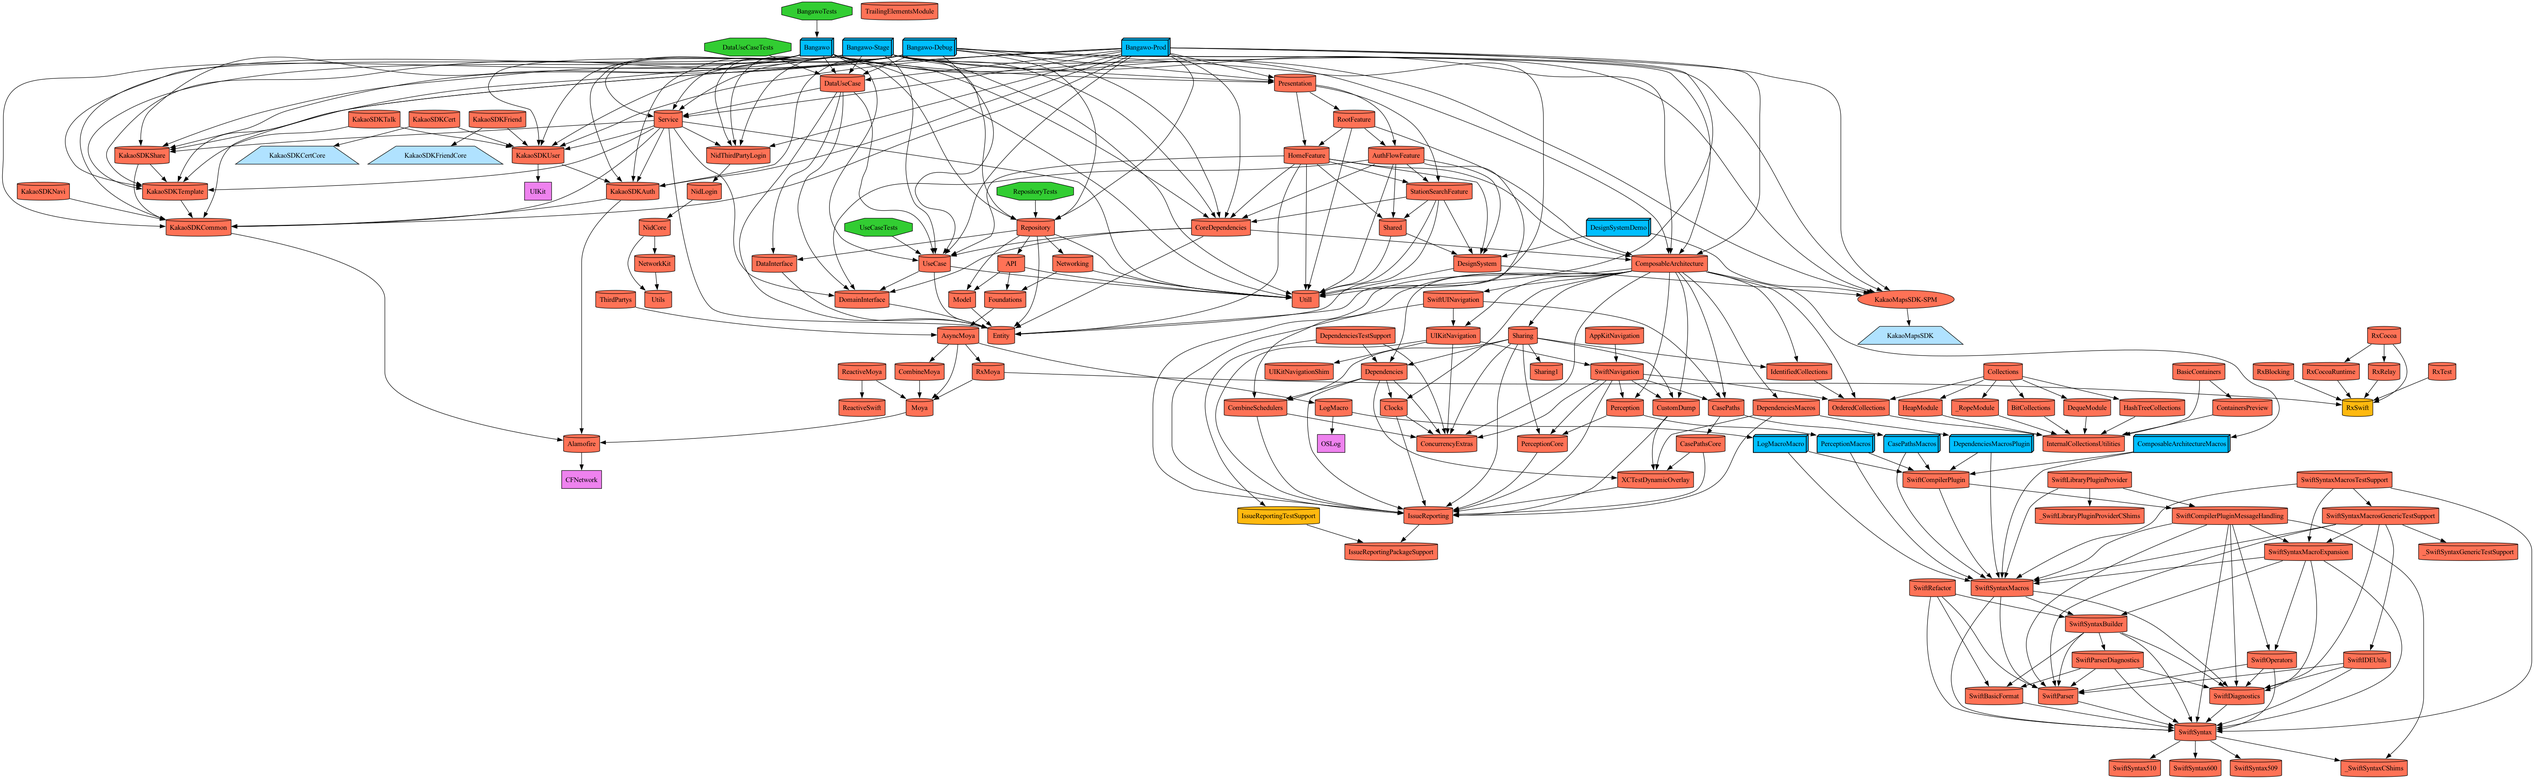
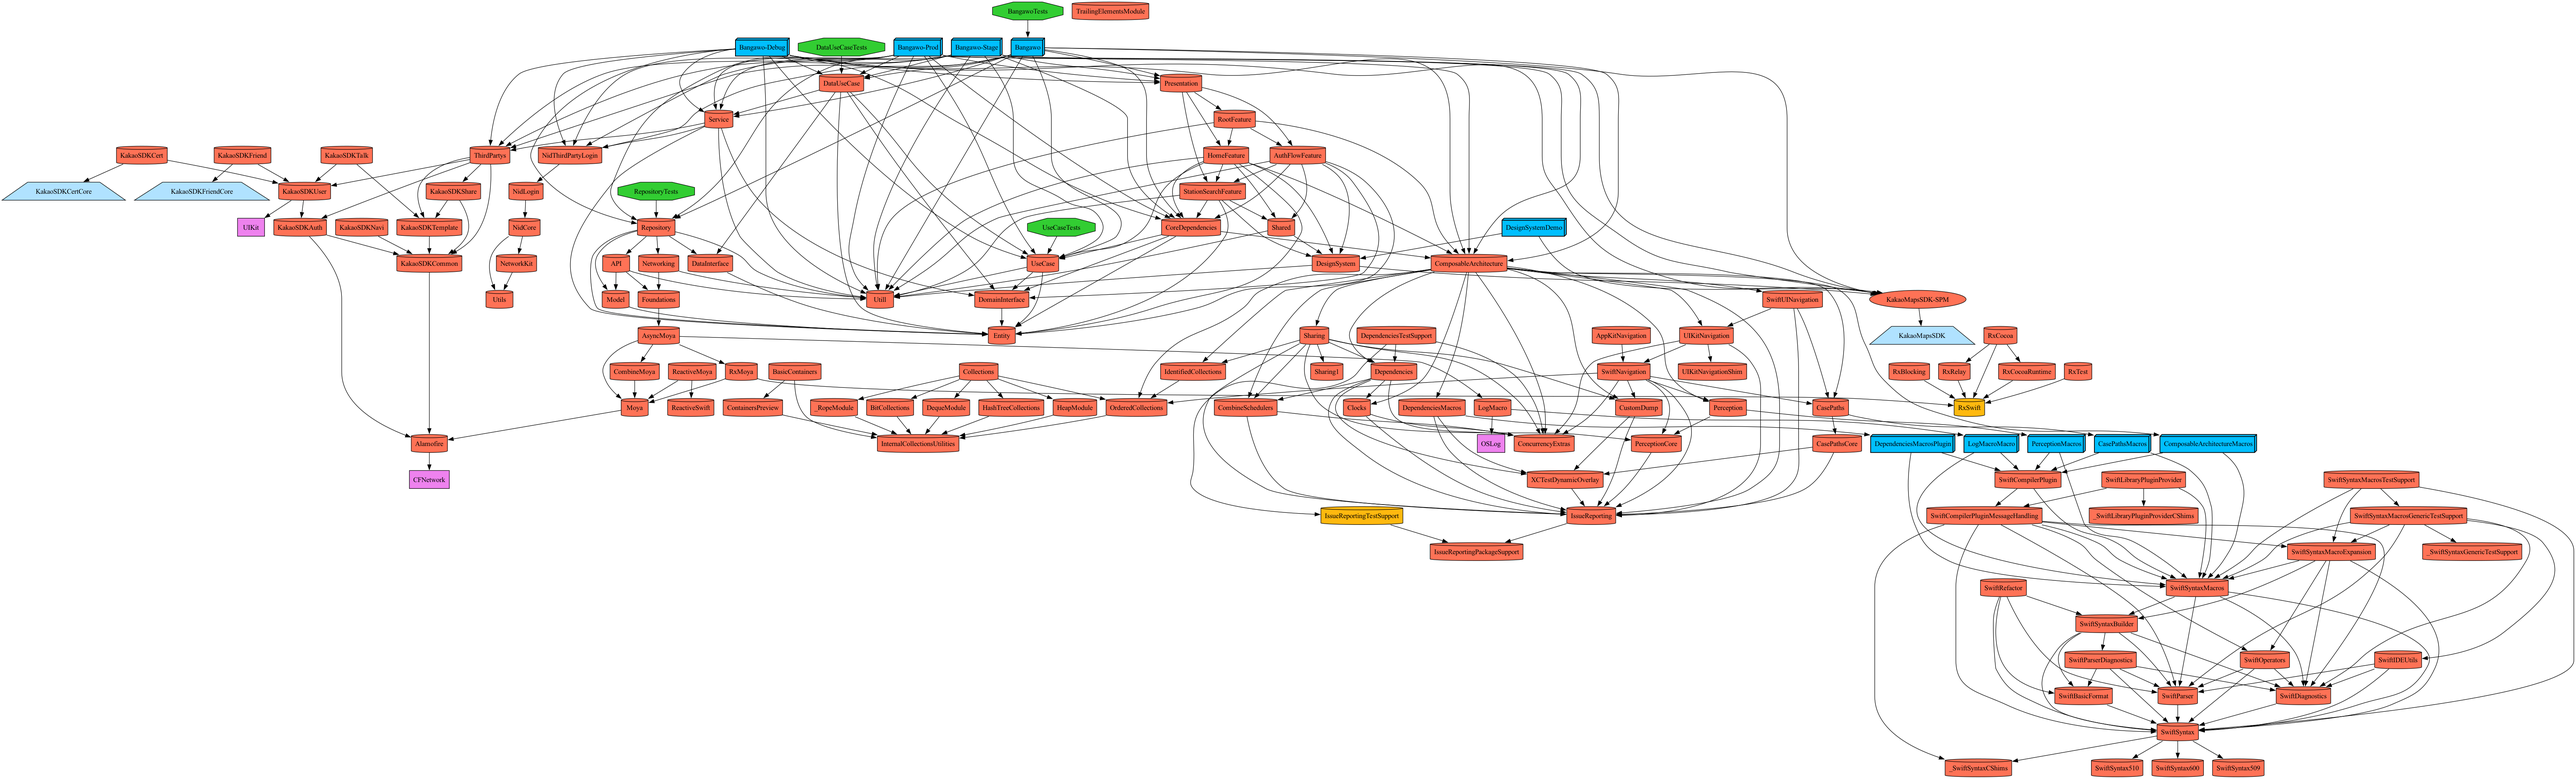
[REFACTOR]: 카카오 SDK 의존성 ThirdPartys 모듈로 집약
App과 Service에 흩어진 KakaoSDK 직접 의존을 제거하고
ThirdPartys에서 @_exported로 재수출하도록 계층화

diff --git a/Projects/App/Project.swift b/Projects/App/Project.swift
@@ -17,10 +17,8 @@ let project = Project.makeAppModule(
     .Data(implements: .DataUseCase),
     .Core(implements: .CoreDependencies),
     .Shared(implements: .Utill),
+    .Network(implements: .ThirdPartys),
     .SPM.kakaoMapsSDK,
-    .SPM.kakaoSDKCommon,
-    .SPM.kakaoSDKAuth,
-    .SPM.kakaoSDKUser,
     .SPM.nidThirdPartyLogin,
     .SPM.composableArchitecture
   ],

diff --git a/Projects/Data/Service/Project.swift b/Projects/Data/Service/Project.swift
@@ -13,10 +13,7 @@ let project = Project.makeModule(
     .Domain(implements: .Entity),
     .Domain(implements: .DomainInterface),
     .Shared(implements: .Utill),
-    .SPM.kakaoSDKAuth,
-    .SPM.kakaoSDKUser,
-    .SPM.kakaoSDKShare,
-    .SPM.kakaoSDKTemplate,
+    .Network(implements: .ThirdPartys),
     .SPM.nidThirdPartyLogin
   ],
   sources: ["Sources/**"],

diff --git a/Projects/Network/ThirdPartys/Project.swift b/Projects/Network/ThirdPartys/Project.swift
@@ -10,7 +10,11 @@ let project = Project.makeModule(
   product: .staticFramework,
   settings:  .settings(),
   dependencies: [
-    .SPM.asyncMoya
+    .SPM.kakaoSDKCommon,
+    .SPM.kakaoSDKAuth,
+    .SPM.kakaoSDKUser,
+    .SPM.kakaoSDKShare,
+    .SPM.kakaoSDKTemplate
   ],
   sources: ["Sources/**"],
   hasTests: false

diff --git a/Projects/App/Sources/Application/BangawoApp.swift b/Projects/App/Sources/Application/BangawoApp.swift
@@ -2,12 +2,11 @@ import SwiftUI
 
 import ComposableArchitecture
 @preconcurrency import KakaoMapsSDK
-import KakaoSDKAuth
-import KakaoSDKCommon
 import NidThirdPartyLogin
 
 import CoreDependencies
 import Presentation
+import ThirdPartys
 import Utill
 
 @main

diff --git a/Projects/Data/Service/Sources/Share/KakaoShareService.swift b/Projects/Data/Service/Sources/Share/KakaoShareService.swift
@@ -5,10 +5,8 @@
 
 import UIKit
 
-import KakaoSDKShare
-import KakaoSDKTemplate
-
 import Entity
+import ThirdPartys
 
 /// 카카오톡 텍스트 템플릿으로 모임 초대 메시지를 전송하는 서비스입니다.
 ///

diff --git a/Projects/Data/Service/Sources/Auth/KakaoLoginService.swift b/Projects/Data/Service/Sources/Auth/KakaoLoginService.swift
@@ -3,11 +3,9 @@
 //  Service
 //
 
-import KakaoSDKAuth
-import KakaoSDKUser
-
 import DomainInterface
 import Entity
+import ThirdPartys
 import Utill
 
 public protocol KakaoLoginServiceInterface: Sendable {

diff --git a/Plugins/DependencyPlugin/ProjectDescriptionHelpers/TargetDependency+Module/Modules.swift b/Plugins/DependencyPlugin/ProjectDescriptionHelpers/TargetDependency+Module/Modules.swift
@@ -36,6 +36,7 @@ public extension ModulePath {
   enum Networks: String, CaseIterable {
     case Networking
     case Foundations
+    case ThirdPartys
 
     public static let name: String = "Network"
   }

diff --git a/Projects/Network/ThirdPartys/Sources/ThirdPartysExported.swift b/Projects/Network/ThirdPartys/Sources/ThirdPartysExported.swift
@@ -1,0 +1,5 @@
+@_exported import KakaoSDKAuth
+@_exported import KakaoSDKCommon
+@_exported import KakaoSDKShare
+@_exported import KakaoSDKTemplate
+@_exported import KakaoSDKUser
